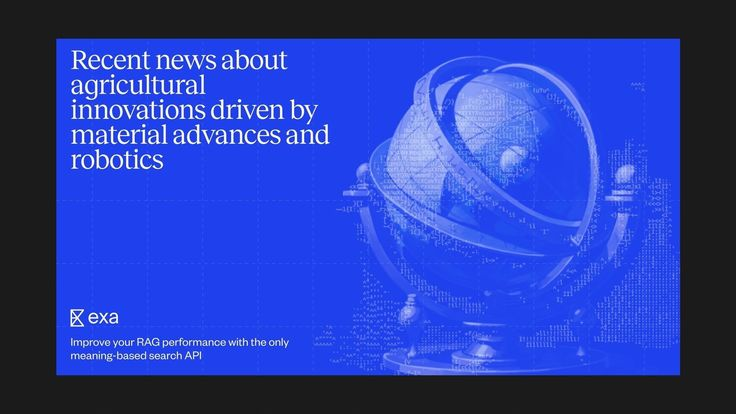
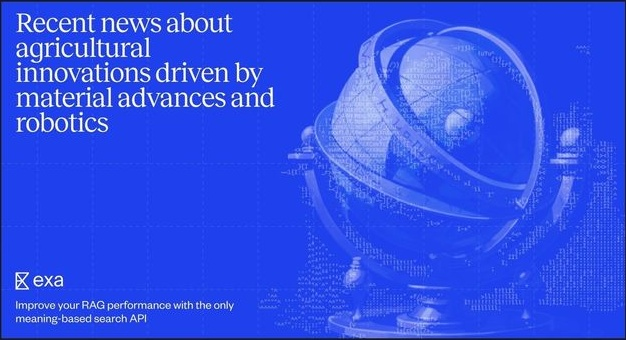
Added better trimming for photos: need condensed grid after

diff --git a/app/globals.css b/app/globals.css
@@ -4,7 +4,7 @@
 .research-grid{display:grid;grid-template-columns:1fr 1fr;gap:16px;padding:0 72px 40px}.research-card{border:1.5px solid var(--ink);border-radius:26px;overflow:hidden;background:#fff;display:flex;flex-direction:column}.research-art{height:230px;position:relative;overflow:hidden;border-bottom:1.5px solid var(--ink);background:repeating-linear-gradient(45deg,#f1efe6 0 10px,#fbfaf3 10px 20px)}.research-card.dark{background:var(--ink);color:var(--paper)}.research-card.dark .research-art{border:0;background:linear-gradient(135deg,var(--accent-deep),var(--accent) 55%,var(--peach))}.dot-field{position:absolute;inset:-20px;background-image:radial-gradient(rgba(14,20,20,.4) 1.2px,transparent 1.2px);background-size:20px 20px;animation:grid-drift 8s linear infinite reverse}.dark .dot-field{background-image:radial-gradient(rgba(251,250,243,.55) 1.2px,transparent 1.2px);animation-direction:normal}.art-label{position:absolute;left:50%;top:50%;transform:translate(-50%,-50%);font:900 66px var(--font-doto),monospace;white-space:nowrap}.dark .art-label{font-size:76px}.research-body{padding:30px 32px 34px;display:flex;flex-direction:column;gap:10px}.research-body .eyebrow{font-size:11px;letter-spacing:.16em;color:#8a908e}.dark .eyebrow{color:var(--peach)}.research-body h2{font-size:30px;font-weight:500;margin:0}.research-body p{font-size:15.5px;line-height:1.6;color:var(--muted);margin:0}.dark .research-body p{color:#a9b3b0}.tags{display:flex;gap:8px;margin-top:10px;flex-wrap:wrap}.research-note{padding:0 72px 50px}.research-note>div{border:1.5px solid var(--ink);border-radius:26px;padding:26px 32px;display:flex;justify-content:space-between;align-items:center;gap:24px;flex-wrap:wrap;background:#fff}.research-note .eyebrow{font-size:11px;letter-spacing:.16em;color:#8a908e;margin-bottom:6px}
 .projects{display:flex;flex-direction:column;gap:20px;padding:0 72px 40px}.project{border:1.5px solid var(--ink);border-radius:28px;overflow:hidden;background:#fff;display:grid;grid-template-columns:1fr 1.1fr;transition:color 1s ease}.project-body{padding:38px 40px;display:flex;flex-direction:column;gap:12px}.project .eyebrow{font-size:11px;letter-spacing:.16em;color:#8a908e}.project h2{font:900 54px var(--font-doto),monospace;margin:0;letter-spacing:.02em}.project p{font-size:16px;line-height:1.6;color:var(--muted);margin:0}.repo-link{margin-top:auto;font-weight:500;color:var(--accent)}.project-art{position:relative;overflow:hidden;min-height:340px;display:flex;align-items:center;justify-content:center;background:var(--ink);border-left:1.5px solid var(--ink)}.project-art.dots{background-image:radial-gradient(var(--accent-a35) 1.4px,transparent 1.4px);background-size:22px 22px}.project-art-label{z-index:1;transform:translateZ(40px);font:900 26px/1.7 var(--font-doto),monospace;color:var(--paper)}.noted-typewriter{display:flex;flex-direction:column;align-items:flex-start}.type-line{display:block;width:0;overflow:hidden;white-space:nowrap;border-right:2px solid var(--paper);animation-duration:10s;animation-timing-function:steps(20,end);animation-iteration-count:infinite}.type-line--one{animation-name:noted-type-one}.type-line--two{color:var(--accent);animation-name:noted-type-two}.type-line--three{animation-name:noted-type-three}.project.reverse{grid-template-columns:1.1fr 1fr}.project.reverse .project-art{order:-1;min-height:280px;border-left:0;border-right:1.5px solid var(--ink);background-image:linear-gradient(rgba(251,250,243,.16) 1px,transparent 1px),linear-gradient(90deg,rgba(251,250,243,.16) 1px,transparent 1px),linear-gradient(135deg,var(--accent-deep),var(--accent) 60%,var(--peach));background-size:26px 26px,26px 26px,auto;background-repeat:repeat,repeat,no-repeat}.project.reverse .project-art-label{font-size:70px}.more-repos{border:1.5px dashed #8a908e;border-radius:28px;padding:26px 40px;display:flex;justify-content:space-between;align-items:center;color:#6b7271;font-size:17px}.more-repos span:last-child{font:900 24px var(--font-doto),monospace}@media(prefers-reduced-motion:reduce){.type-line{animation:none;width:auto;border-right:0}}
 .writing-list{display:flex;flex-direction:column;padding:20px 0 50px}.post-card{border:0;border-top:1.5px solid var(--ink);background:#fff;padding:32px 72px;display:grid;grid-template-columns:150px 1fr auto;gap:32px;align-items:baseline}.post-card:last-of-type{border-bottom:1.5px solid var(--ink)}.post-meta{display:flex;flex-direction:column;gap:10px}.post-date{font:900 22px var(--font-doto),monospace}.post-type{width:max-content;border:1px solid currentColor;border-radius:999px;padding:5px 9px;font:10px var(--font-mono),monospace;letter-spacing:.13em;text-transform:uppercase;color:var(--accent)}.post-card--thought{background:var(--peach-wash)}.post-card--thought .post-type{color:var(--accent-deep)}.post-card h2{font-size:clamp(24px,2.3vw,34px);font-weight:500;margin:0 0 6px;max-width:900px}.post-card p{font-size:15px;line-height:1.55;color:var(--muted);margin:0;max-width:760px}.post-time{font:11px var(--font-mono),monospace;letter-spacing:.12em;color:#8a908e}.new-post{border-bottom:1.5px dashed #8a908e;padding:24px 72px;font:12px var(--font-mono),monospace;letter-spacing:.1em;color:#8a908e}.article{width:min(720px,90vw);margin:0 auto;padding:50px 0 60px}.back{font:12px var(--font-mono),monospace;letter-spacing:.12em;color:#6b7271}.article-meta{display:flex;gap:18px;align-items:baseline;margin:34px 0 14px}.article-date{font:900 20px var(--font-doto),monospace}.article-meta span:last-child{font:11px var(--font-mono),monospace;letter-spacing:.12em;color:#8a908e}.article h1{font-size:clamp(38px,4.5vw,56px);font-weight:400;letter-spacing:-.02em;line-height:1.1;margin:0 0 26px}.article-rule{height:1.5px;background:var(--ink);margin-bottom:32px}.article-content{font-size:17.5px;line-height:1.75;color:#2b3231}.article-content p{margin:0 0 22px}.article-content blockquote{margin:32px 0;padding:20px 28px;border-left:3px solid var(--accent);background:#fff;border-radius:0 16px 16px 0;font-size:20px;line-height:1.5;color:var(--ink)}.article-thanks{margin-top:44px;display:flex;justify-content:space-between;align-items:center;border:1.5px solid var(--ink);border-radius:18px;padding:18px 26px;background:#fff}.article-thanks span{font:11px var(--font-mono),monospace;letter-spacing:.14em;color:#8a908e}.article-thanks a{font-weight:500;color:var(--accent)}
-.photos-grid{display:grid;grid-template-columns:repeat(3,1fr);gap:34px;padding:10px 72px 60px;perspective:1800px}.photo-frame{align-self:start;background:#fff;border:1.5px solid var(--ink);border-radius:6px;padding:12px 12px 14px;box-shadow:0 10px 26px rgba(14,20,20,.09);transition:transform .35s cubic-bezier(.34,1.56,.64,1),box-shadow .35s}.photo-frame:hover{transform:rotate(0deg) translateZ(46px) scale(1.03)!important;box-shadow:0 34px 70px rgba(14,20,20,.18)}.photo-slot{width:100%;aspect-ratio:var(--photo-aspect-ratio,4 / 5);position:relative;display:grid;place-items:center;overflow:hidden;background:repeating-linear-gradient(45deg,#f1efe6 0 8px,#f7f5ec 8px 16px);cursor:pointer}.photo-slot img{width:100%;height:100%;object-fit:contain;display:block}.photo-slot input{position:absolute;inset:0;opacity:0;cursor:pointer}.photo-slot span{font:11px var(--font-mono),monospace;letter-spacing:.1em;color:#6b7271;text-align:center;padding:16px}.photo-caption{display:flex;justify-content:space-between;align-items:baseline;margin-top:12px;padding:0 4px}.photo-caption b{font:900 15px var(--font-doto),monospace;letter-spacing:.04em}.photo-caption small{font:10px var(--font-mono),monospace;letter-spacing:.14em;color:#8a908e}
+.photos-grid{display:grid;grid-template-columns:repeat(3,1fr);gap:34px;padding:10px 72px 60px;perspective:1800px}.photo-frame{align-self:start;background:#fff;border:1.5px solid var(--ink);border-radius:6px;padding:12px 12px 14px;box-shadow:0 10px 26px rgba(14,20,20,.09);transition:transform .35s cubic-bezier(.34,1.56,.64,1),box-shadow .35s}.photo-frame:hover{transform:rotate(0deg) translateZ(46px) scale(1.03)!important;box-shadow:0 34px 70px rgba(14,20,20,.18)}.photo-slot{width:100%;position:relative;display:grid;place-items:center;overflow:hidden;background:repeating-linear-gradient(45deg,#f1efe6 0 8px,#f7f5ec 8px 16px)}.photo-slot img{width:100%;height:auto;display:block}.photo-slot input{position:absolute;inset:0;opacity:0;cursor:pointer}.photo-slot span{font:11px var(--font-mono),monospace;letter-spacing:.1em;color:#6b7271;text-align:center;padding:16px}.photo-caption{display:flex;justify-content:space-between;align-items:baseline;margin-top:12px;padding:0 4px}.photo-caption b{font:900 15px var(--font-doto),monospace;letter-spacing:.04em}.photo-caption small{font:10px var(--font-mono),monospace;letter-spacing:.14em;color:#8a908e}
 @media(max-width:800px){.site-nav{justify-content:flex-start;padding:16px}.nav-pill{width:100%}.site-footer{padding:32px 24px;gap:16px}.page-header{padding:38px 24px}.home-hero{padding:112px 24px 44px}.home-cards,.research-grid,.photos-grid{grid-template-columns:1fr;padding:36px 24px}.jobs,.projects{padding-left:24px;padding-right:24px}.job{grid-template-columns:1fr;gap:16px;padding:26px}.job-tag{text-align:left}.research-grid{padding-top:0}.research-note{padding:0 24px 36px}.project,.project.reverse{grid-template-columns:1fr}.project.reverse .project-art{order:0}.project-art{border-left:0;border-top:1.5px solid var(--ink);min-height:230px}.project.reverse .project-art{border-right:0;border-top:1.5px solid var(--ink)}.project-body{padding:28px}.project h2{font-size:46px}.post-card{grid-template-columns:1fr;gap:16px;padding:24px}.post-meta{flex-direction:row;align-items:center}.post-time{display:none}.new-post{padding-left:24px;padding-right:24px}.photos-grid{gap:28px}.home-copy{font-size:17px}.button-row{flex-wrap:wrap}.ticker-track{font-size:14px}.article{padding-top:32px}}
 
 /* Restore the landing page's original, non-glass treatment. */
@@ -75,10 +75,14 @@ img,svg,video{max-width:100%}
 .accent,.gradient-text{background:linear-gradient(110deg,var(--accent),var(--peach),var(--accent),var(--peach));background-size:300% 100%;background-clip:text;-webkit-background-clip:text;color:transparent;animation:accent-slide 6s linear infinite}
 
 /* ---- Recs: the shoe closet ---- */
-.recs-header{padding:48px 72px 8px;text-align:center}.recs-header .page-title{margin-top:14px}.recs-eyebrow{font:11px var(--font-mono),monospace;letter-spacing:.18em;color:#8a908e;text-transform:uppercase;animation:fade-up .7s cubic-bezier(.16,1,.3,1) both}.recs-hint{font:12px var(--font-mono),monospace;color:#8a908e;margin:14px 0 0;letter-spacing:.06em;animation:fade-up .7s cubic-bezier(.16,1,.3,1) .16s both}
+.recs-header{padding:48px 72px 8px;text-align:center}.recs-hint{font:12px var(--font-mono),monospace;color:#8a908e;margin:14px 0 0;letter-spacing:.06em;animation:fade-up .7s cubic-bezier(.16,1,.3,1) .16s both}
+.recs-filter{display:flex;justify-content:center;flex-wrap:wrap;gap:8px;padding:24px 24px 0;animation:fade-up .7s cubic-bezier(.16,1,.3,1) .2s both}
+.recs-filter button{display:inline-flex;align-items:center;gap:7px;padding:9px 16px;border:1.5px solid var(--ink);border-radius:999px;background:#fff;font:11px var(--font-mono),monospace;letter-spacing:.14em;text-transform:uppercase;color:var(--ink);cursor:pointer;transition:background .25s,color .25s}
+.recs-filter button span{font:900 11px var(--font-doto),monospace;color:#8a908e;transition:color .25s}
+.recs-filter button:hover,.recs-filter button.is-active{background:var(--ink);color:var(--paper)}
+.recs-filter button:hover span,.recs-filter button.is-active span{color:var(--accent)}
+.recs-filter button:focus-visible{outline:3px solid var(--accent-a35);outline-offset:3px}
 .recs-stage{position:relative;display:flex;justify-content:center;padding:82px 24px 64px;perspective:1800px;perspective-origin:50% 38%;animation:fade-up .9s cubic-bezier(.16,1,.3,1) .2s both}
-.recs-floor{position:absolute;left:50%;bottom:16px;width:min(880px,92%);height:120px;transform:translateX(-50%);background:radial-gradient(ellipse at center,var(--accent-a16),transparent 68%);animation:recs-floor-pulse 5s ease-in-out infinite;pointer-events:none}
-@keyframes recs-floor-pulse{0%,100%{opacity:.5}50%{opacity:.9}}
 .recs-sizer{display:flex;justify-content:center;align-items:flex-start}
 .recs-shelf{display:grid;grid-template-columns:repeat(4,320px);gap:64px 28px;transform-style:preserve-3d;transform-origin:50% 0;transform:rotateX(-7deg);transition:transform .4s ease-out}
 .recs-box{--box-color:#fff;--box-edge:rgba(14,20,20,.2);position:relative;width:320px;height:145px;transform-style:preserve-3d;transition:transform .5s cubic-bezier(.34,1.3,.64,1);cursor:pointer;-webkit-tap-highlight-color:transparent}
@@ -105,18 +109,14 @@ img,svg,video{max-width:100%}
 .recs-brand-mark--adidas{width:104px;height:104px;mix-blend-mode:multiply}
 .recs-brand-mark--yeezy{width:212px;max-height:none}
 .recs-brand-mark--acg{width:106px;height:106px}
-.recs-detail{display:flex;justify-content:center;padding:0 72px 24px}
-.recs-detail>div{width:min(760px,100%);border:1.5px solid var(--ink);border-radius:10px;background:#fff;box-shadow:0 14px 34px rgba(14,20,20,.1);padding:24px 28px;display:flex;gap:26px;align-items:flex-start;flex-wrap:wrap}
-.recs-counter{display:flex;flex-direction:column;gap:6px;min-width:86px}
-.recs-counter b{font:900 34px/1 var(--font-doto),monospace;color:var(--accent)}
-.recs-counter span{font:10px var(--font-mono),monospace;letter-spacing:.16em;color:#8a908e;text-transform:uppercase}
-.recs-detail-body{flex:1;min-width:220px;display:flex;flex-direction:column;gap:8px}
-.recs-detail-body h2{font-size:24px;font-weight:500;letter-spacing:-.01em;margin:0}
-.recs-detail-body p{font-size:14px;line-height:1.55;color:#3c4443;margin:0;text-wrap:pretty}
-.recs-detail-body small{font:11px var(--font-mono),monospace;letter-spacing:.08em;color:#6b7271}
-.recs-detail-nav{display:flex;gap:8px}
-.recs-detail-nav button{width:44px;height:44px;border:1.5px solid var(--ink);border-radius:999px;background:#fff;font:900 18px var(--font-doto),monospace;cursor:pointer;color:var(--ink);transition:background .3s,color .3s}
-.recs-detail-nav button:hover{background:var(--ink);color:var(--paper)}
-.recs-note{text-align:center;font:11px var(--font-mono),monospace;letter-spacing:.12em;color:#8a908e;margin:8px 0 56px}
-@media(max-width:800px){.recs-header{padding:38px 24px 4px}.recs-stage{padding:54px 12px 44px}.recs-detail{padding:0 24px 20px}.recs-detail>div{padding:20px 22px;gap:18px}}
-@media(prefers-reduced-motion:reduce){.recs-floor{animation:none}.recs-box,.recs-box-inner,.recs-front,.recs-shelf{transition:none}}
+@media(max-width:800px){.recs-header{padding:38px 24px 4px}.recs-stage{padding:54px 12px 44px}}
+@media(prefers-reduced-motion:reduce){.recs-box,.recs-box-inner,.recs-front,.recs-shelf{transition:none}}
+.photos-controls{display:flex;justify-content:space-between;align-items:center;gap:16px;flex-wrap:wrap;padding:24px 72px 14px;animation:fade-up .7s cubic-bezier(.16,1,.3,1) .2s both}
+.photos-select{position:relative;display:inline-flex;align-items:center;gap:10px}
+.photos-select-label{font:900 11px var(--font-doto),monospace;letter-spacing:.14em;text-transform:uppercase;color:#8a908e}
+.photos-select select{appearance:none;-webkit-appearance:none;padding:9px 38px 9px 16px;border:1.5px solid var(--ink);border-radius:999px;background:#fff;font:11px var(--font-mono),monospace;letter-spacing:.08em;color:var(--ink);cursor:pointer;transition:background .25s,color .25s}
+.photos-select select:hover{background:var(--ink);color:var(--paper)}
+.photos-select::after{content:"▾";position:absolute;right:16px;top:50%;transform:translateY(-50%);pointer-events:none;font-size:11px;color:currentColor}
+.photos-select:has(select:hover)::after{color:var(--paper)}
+@media(max-width:800px){.photos-controls{padding:24px 24px 14px}}
+.photos-empty{text-align:center;padding:60px 24px;font:11px var(--font-mono),monospace;letter-spacing:.14em;text-transform:uppercase;color:#8a908e}

diff --git a/components/ShoeCloset.jsx b/components/ShoeCloset.jsx
@@ -1,34 +1,14 @@
 "use client";
 
 import { useEffect, useRef, useState } from "react";
+import shoes from "../data/shoes.json";
 
 const BOX_WIDTH = 320;
 const BOX_HEIGHT = 145;
 const BOX_COLUMN_GAP = 28;
 const BOX_ROW_GAP = 64;
 
-const shoes = [
-  { brand: "Nike", brandKey: "nike", tag: "daily", name: "Everyday sneaker", blurb: "The pair I reach for without thinking. Comfortable at hour ten, looks fine with everything.", meta: "OWNED · 2 YRS" },
-  { brand: "Adidas", brandKey: "adidas", tag: "court", name: "Court pair", blurb: "Pickup games and pickleball alike. Grippy enough to embarrass someone.", meta: "INDOOR ONLY" },
-  { brand: "Yeezy", brandKey: "yeezy", tag: "recovery", name: "Post-run slides", blurb: "Ugly on purpose. The first thing on after any long run, and I will not be shamed.", meta: "WORTH IT" },
-  { brand: "ACG", brandKey: "acg", tag: "trail", name: "Off-road pair", blurb: "Mud, roots, questionable shortcuts. Grips everything, apologizes for nothing.", meta: "3 NATIONAL PARKS" },
-  { brand: "Nike", brandKey: "nike", tag: "running", name: "Go-to runner", blurb: "Cushioned enough for long miles, light enough that I don't blame the shoes.", meta: "~400 MI" },
-  { brand: "Adidas", brandKey: "adidas", tag: "indoor", name: "Indoor trainer", blurb: "Stable, quick, and made for the kind of session that runs longer than planned.", meta: "WEEKLY ROTATION" },
-  { brand: "Yeezy", brandKey: "yeezy", tag: "foam", name: "Foam runner", blurb: "The answer for errand days when laces feel like an unnecessary negotiation.", meta: "EASY ON" },
-  { brand: "ACG", brandKey: "acg", tag: "hike", name: "Hiking shoe", blurb: "A dependable companion for long trails, loose rock, and bad map decisions.", meta: "ALL TERRAIN" },
-  { brand: "Nike", brandKey: "nike", tag: "retro", name: "Retro pick", blurb: "Older than some of my classmates. Still the best-looking thing on this shelf.", meta: "CLASSIC" },
-  { brand: "Adidas", brandKey: "adidas", tag: "terrace", name: "Terrace classic", blurb: "Clean enough for dinner, durable enough for a day that wanders everywhere.", meta: "OFF-DUTY" },
-  { brand: "Yeezy", brandKey: "yeezy", tag: "winter", name: "Winter boot", blurb: "Waterproof, warm, and immune to salt stains. Built for a proper cold snap.", meta: "SNOW READY" },
-  { brand: "ACG", brandKey: "acg", tag: "weather", name: "All-weather boot", blurb: "For when the forecast looks hostile but the plan still sounds worth it.", meta: "RAIN OR SHINE" },
-  { brand: "Nike", brandKey: "nike", tag: "gym", name: "Lifting shoe", blurb: "Flat, stable, zero bounce. Squats feel honest in these.", meta: "LEG DAY ONLY" },
-  { brand: "Adidas", brandKey: "adidas", tag: "travel", name: "Airport slip-on", blurb: "Through security in four seconds. Comfort over dignity, always.", meta: "TSA APPROVED" },
-  { brand: "Yeezy", brandKey: "yeezy", tag: "grail", name: "The grail pair", blurb: "Too clean to wear, too good to sell. They live on the shelf and judge the others.", meta: "0 WEARS · NO REGRETS" },
-  { brand: "ACG", brandKey: "acg", tag: "camp", name: "Camp mule", blurb: "Easy around the campsite and forgiving after a day spent on your feet.", meta: "PACK LIGHT" },
-  { brand: "Nike", brandKey: "nike", tag: "beater", name: "The beaters", blurb: "Lawn mowing, painting, rain errands. Every good rotation needs a sacrifice.", meta: "BEYOND SAVING" },
-  { brand: "Adidas", brandKey: "adidas", tag: "nice-ish", name: "Dress-adjacent pick", blurb: "The one pair that survives weddings, interviews, and airport sprints alike.", meta: "BUY ONCE" },
-  { brand: "Yeezy", brandKey: "yeezy", tag: "lounge", name: "Lounge pair", blurb: "Soft, understated, and reserved for a quiet weekend with nowhere to be.", meta: "SUNDAY ONLY" },
-  { brand: "ACG", brandKey: "acg", tag: "ridge", name: "Ridge runner", blurb: "Light enough to move quickly, rugged enough for whatever the path becomes.", meta: "OUTSIDE" },
-];
+const CATEGORIES = ["All", "Running", "Hiking", "Casual", "Fashion"];
 
 const TILT = -7;
 
@@ -46,12 +26,15 @@ function BrandMark({ brandKey, brand }) {
 
 export default function ShoeCloset() {
   const [active, setActive] = useState(0);
-  const [open, setOpen] = useState(true);
+  const [open, setOpen] = useState(false);
+  const [category, setCategory] = useState("All");
   const stageRef = useRef(null);
   const sizerRef = useRef(null);
   const shelfRef = useRef(null);
   const scaleRef = useRef(1);
   const reducedRef = useRef(false);
+
+  const visible = category === "All" ? shoes : shoes.filter(s => s.category === category);
 
   useEffect(() => {
     reducedRef.current = window.matchMedia("(prefers-reduced-motion: reduce)").matches;
@@ -75,14 +58,14 @@ export default function ShoeCloset() {
       }
 
       scaleRef.current = scale;
-      const rows = Math.ceil(shoes.length / columns);
+      const rows = Math.ceil(visible.length / columns);
       sizer.style.height = `${Math.round((rows * BOX_HEIGHT + (rows - 1) * BOX_ROW_GAP + 106) * scale)}px`;
     };
 
     fit();
     window.addEventListener("resize", fit);
     return () => window.removeEventListener("resize", fit);
-  }, []);
+  }, [visible.length]);
 
   function parallax(event) {
     const stage = stageRef.current;
@@ -99,11 +82,6 @@ export default function ShoeCloset() {
     if (shelf) shelf.style.transform = `scale(${scaleRef.current}) rotateX(${TILT}deg)`;
   }
 
-  function go(delta) {
-    setActive(current => (current + delta + shoes.length) % shoes.length);
-    setOpen(true);
-  }
-
   function pick(index) {
     if (index === active) setOpen(current => !current);
     else {
@@ -112,14 +90,32 @@ export default function ShoeCloset() {
     }
   }
 
-  const shoe = shoes[active];
+  function pickCategory(next) {
+    if (next === category) return;
+    setCategory(next);
+    setActive(0);
+    setOpen(false);
+  }
 
   return <>
+    <nav className="recs-filter" aria-label="Shoe categories">
+      {CATEGORIES.map(c => (
+        <button
+          key={c}
+          type="button"
+          className={c === category ? "is-active" : ""}
+          aria-pressed={c === category}
+          onClick={() => pickCategory(c)}
+        >
+          {c}
+          <span>{c === "All" ? shoes.length : shoes.filter(s => s.category === c).length}</span>
+        </button>
+      ))}
+    </nav>
     <div className="recs-stage" ref={stageRef} onMouseMove={parallax} onMouseLeave={unparallax}>
-      <div className="recs-floor" />
       <div className="recs-sizer" ref={sizerRef}>
         <div className="recs-shelf" ref={shelfRef}>
-          {shoes.map((s, index) => {
+          {visible.map((s, index) => {
             const isOpen = index === active && open;
             return <div
             key={`${s.brandKey}-${s.tag}`}
@@ -151,21 +147,5 @@ export default function ShoeCloset() {
         </div>
       </div>
     </div>
-    <section className="recs-detail"><div>
-      <div className="recs-counter">
-        <b>{String(active + 1).padStart(2, "0")}/{String(shoes.length).padStart(2, "0")}</b>
-        <span>{shoe.brand}</span>
-      </div>
-      <div className="recs-detail-body">
-        <h2>{shoe.name}</h2>
-        <p>{shoe.blurb}</p>
-        <small>{shoe.meta}</small>
-      </div>
-      <div className="recs-detail-nav">
-        <button type="button" aria-label="Previous pair" onClick={() => go(-1)}>←</button>
-        <button type="button" aria-label="Next pair" onClick={() => go(1)}>→</button>
-      </div>
-    </div></section>
-    <p className="recs-note">cars · tech — pulled from the shelf, returning soon</p>
   </>;
 }

diff --git a/components/PhotoGrid.jsx b/components/PhotoGrid.jsx
@@ -1,49 +1,70 @@
 "use client";
 
-import { useEffect, useRef, useState } from "react";
+import { useState } from "react";
+import photos from "../data/photos.json";
 
-const frames = [
-  ["no.01", "35MM · —", -2.4], ["no.02", "DIGITAL · —", 1.8], ["no.03", "35MM · —", -1.2],
-  ["no.04", "DIGITAL · —", 2.6], ["no.05", "IPHONE · —", -2], ["no.06", "35MM · —", 1.4],
+const SOURCES = ["All", "iPhone", "Fujifilm X-M5", "Digital Art", "Drawings"];
+
+const SORTS = [
+  { key: "latest", label: "Latest" },
+  { key: "earliest", label: "Earliest" },
+  { key: "res-desc", label: "Highest res" },
+  { key: "res-asc", label: "Lowest res" },
 ];
+
+const COMPARATORS = {
+  latest: (a, b) => new Date(b.date) - new Date(a.date),
+  earliest: (a, b) => new Date(a.date) - new Date(b.date),
+  "res-desc": (a, b) => b.width * b.height - a.width * a.height,
+  "res-asc": (a, b) => a.width * a.height - b.width * b.height,
+};
+
+function caption(photo) {
+  const date = new Date(`${photo.date}T00:00:00`)
+    .toLocaleDateString("en-US", { month: "short", year: "numeric" })
+    .toUpperCase();
+  return `${photo.source.toUpperCase()} · ${date}`;
+}
+
 export default function PhotoGrid() {
-  const [images, setImages] = useState({});
-  const imagesRef = useRef({});
-  const pendingUploads = useRef({});
+  const [source, setSource] = useState("All");
+  const [sort, setSort] = useState("latest");
 
-  useEffect(() => {
-    imagesRef.current = images;
-  }, [images]);
+  const visible = (source === "All" ? photos : photos.filter(p => p.source === source))
+    .toSorted(COMPARATORS[sort]);
 
-  useEffect(() => () => {
-    Object.values(imagesRef.current).forEach(({ src }) => URL.revokeObjectURL(src));
-  }, []);
-
-  function select(index, file) {
-    if (!file?.type.startsWith("image/")) return;
-
-    const src = URL.createObjectURL(file);
-    const upload = Symbol();
-    pendingUploads.current[index] = upload;
-    const image = new Image();
-
-    image.onload = () => {
-      if (pendingUploads.current[index] !== upload) {
-        URL.revokeObjectURL(src);
-        return;
-      }
-
-      setImages(current => {
-        if (current[index]) URL.revokeObjectURL(current[index].src);
-        return { ...current, [index]: { src, aspectRatio: `${image.naturalWidth} / ${image.naturalHeight}` } };
-      });
-    };
-    image.onerror = () => URL.revokeObjectURL(src);
-    image.src = src;
-  }
-
-  return <section className="photos-grid">{frames.map(([label, meta, rotation], index) => {
-    const photo = images[index];
-    return <div className="photo-frame" style={{ transform: `rotate(${rotation}deg)`, "--photo-aspect-ratio": photo?.aspectRatio }} key={label}><label className="photo-slot">{photo ? <img src={photo.src} alt={`Uploaded ${label} photograph`} /> : <span>drop photo {String(index + 1).padStart(2, "0")}</span>}<input aria-label={`Upload ${label} photograph`} type="file" accept="image/*" onChange={event => select(index, event.target.files?.[0])} /></label><div className="photo-caption"><b>{label}</b><small>{meta}</small></div></div>;
-  })}</section>;
+  return <>
+    <div className="photos-controls">
+      <label className="photos-select">
+        <span className="photos-select-label">filter</span>
+        <select aria-label="Filter photos by source" value={source} onChange={e => setSource(e.target.value)}>
+          {SOURCES.map(s => (
+            <option key={s} value={s}>
+              {s} ({s === "All" ? photos.length : photos.filter(p => p.source === s).length})
+            </option>
+          ))}
+        </select>
+      </label>
+      <label className="photos-select">
+        <span className="photos-select-label">sort</span>
+        <select aria-label="Sort photos" value={sort} onChange={e => setSort(e.target.value)}>
+          {SORTS.map(({ key, label }) => <option key={key} value={key}>{label}</option>)}
+        </select>
+      </label>
+    </div>
+    {visible.length === 0
+      ? <p className="photos-empty">nothing here yet.</p>
+      : <section className="photos-grid">{visible.map(photo => (
+          <div
+            className="photo-frame"
+            style={{ transform: `rotate(${photo.rotation ?? 0}deg)` }}
+            key={photo.label}
+          >
+            <div className="photo-slot">
+              <img src={photo.src} alt={`${photo.label} photograph`} width={photo.width} height={photo.height} loading="lazy" />
+            </div>
+            <div className="photo-caption"><b>{photo.label}</b><small>{caption(photo)}</small></div>
+          </div>
+        ))}</section>}
+  </>;
 }

diff --git a/app/photos/page.jsx b/app/photos/page.jsx
@@ -8,4 +8,10 @@ export const metadata = pageMetadata({
   path: "/photos",
 });
 
-export default function Photos() { return <Page active="photos"><header className="page-header"><h1 className="page-title">Frames I <span className="accent">caught</span>.</h1><p className="page-intro mono" style={{ fontSize: 12, color: "#8a908e", letterSpacing: ".06em" }}>choose an image for any frame ↓</p></header><PhotoGrid /></Page>; }
+export default function Photos() { 
+  return <Page active="photos"><
+    header className="page-header">
+    <h1 className="page-title">
+      Frames I <span className="accent">caught</span>.
+    </h1>
+    </header><PhotoGrid /></Page>; }

diff --git a/app/recs/page.jsx b/app/recs/page.jsx
@@ -11,9 +11,8 @@ export const metadata = pageMetadata({
 export default function Recs() {
   return <Page active="recs">
     <header className="recs-header">
-      <div className="recs-eyebrow">→ recs · 01 · open the boxes ←</div>
       <h1 className="page-title">The <span className="accent doto">shoe</span> closet.</h1>
-      <p className="recs-hint">20 boxes · click a box to drop its front · no affiliate links</p>
+      <p className="recs-hint">20 boxes · pick a category · click a box to drop its front · no affiliate links</p>
     </header>
     <ShoeCloset />
   </Page>;

diff --git a/README.md b/README.md
@@ -2,6 +2,22 @@
 
 A Next.js portfolio built with React and the App Router.
 
+## Adding content
+
+Content lives in JSON files under `data/` — edit them (locally or straight
+from the GitHub web UI) and Vercel redeploys automatically.
+
+- **Shoes** (`data/shoes.json`): add an object with `brand`, `brandKey`
+  (`nike` | `adidas` | `yeezy` | `acg`), `tag` (unique per brand), `category`
+  (`Running` | `Hiking` | `Casual` | `Fashion`), `name`, `blurb`, and `meta`.
+- **Photos** (`data/photos.json`): upload the image to `public/uploads/`
+  (resize to ~1600px wide first), then add an entry with `src`
+  (`/uploads/<filename>`), `label`, `source` (`iPhone` | `Fujifilm X-M5` |
+  `Digital Art` | `Drawings`), `date` (`YYYY-MM-DD`), `width`/`height`
+  (pixel dimensions — run `sips -g pixelWidth -g pixelHeight <file>` to get
+  them; used for the resolution sort and frame aspect ratio), and an
+  optional `rotation` (degrees).
+
 ## Development
 
 ```bash
